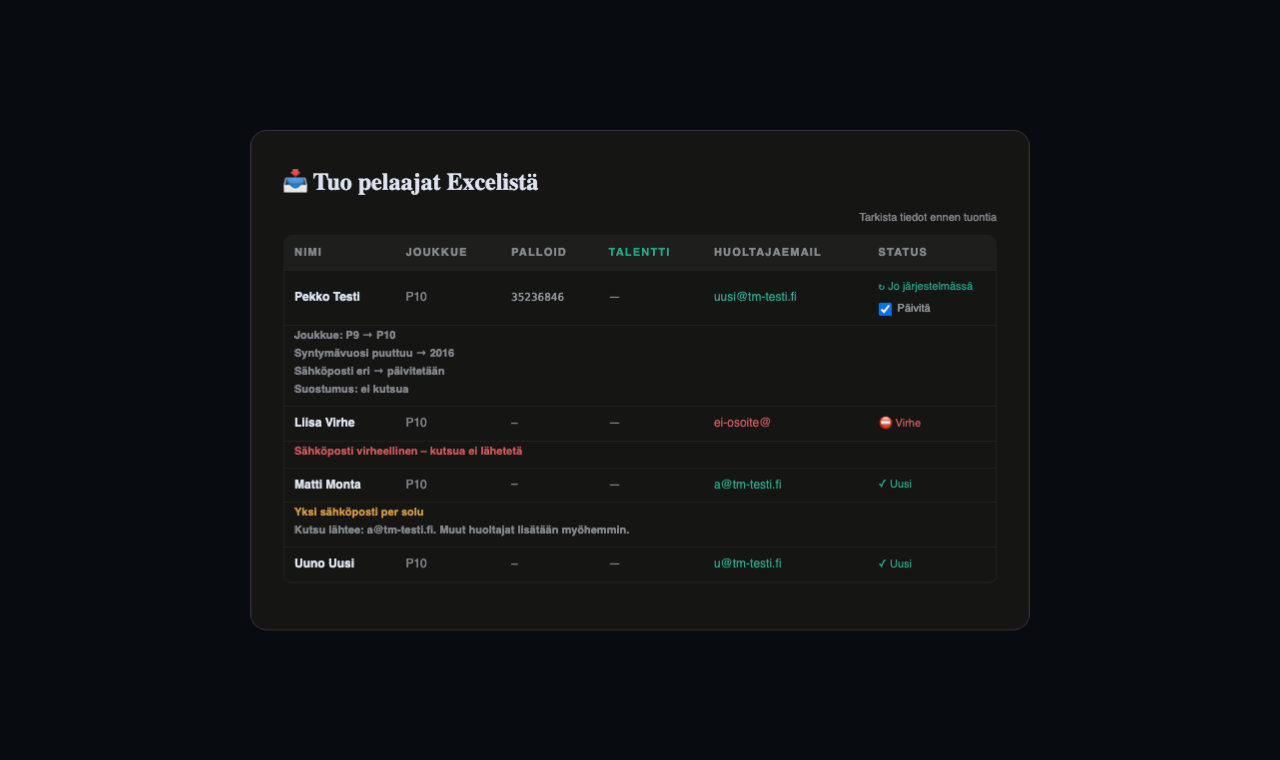
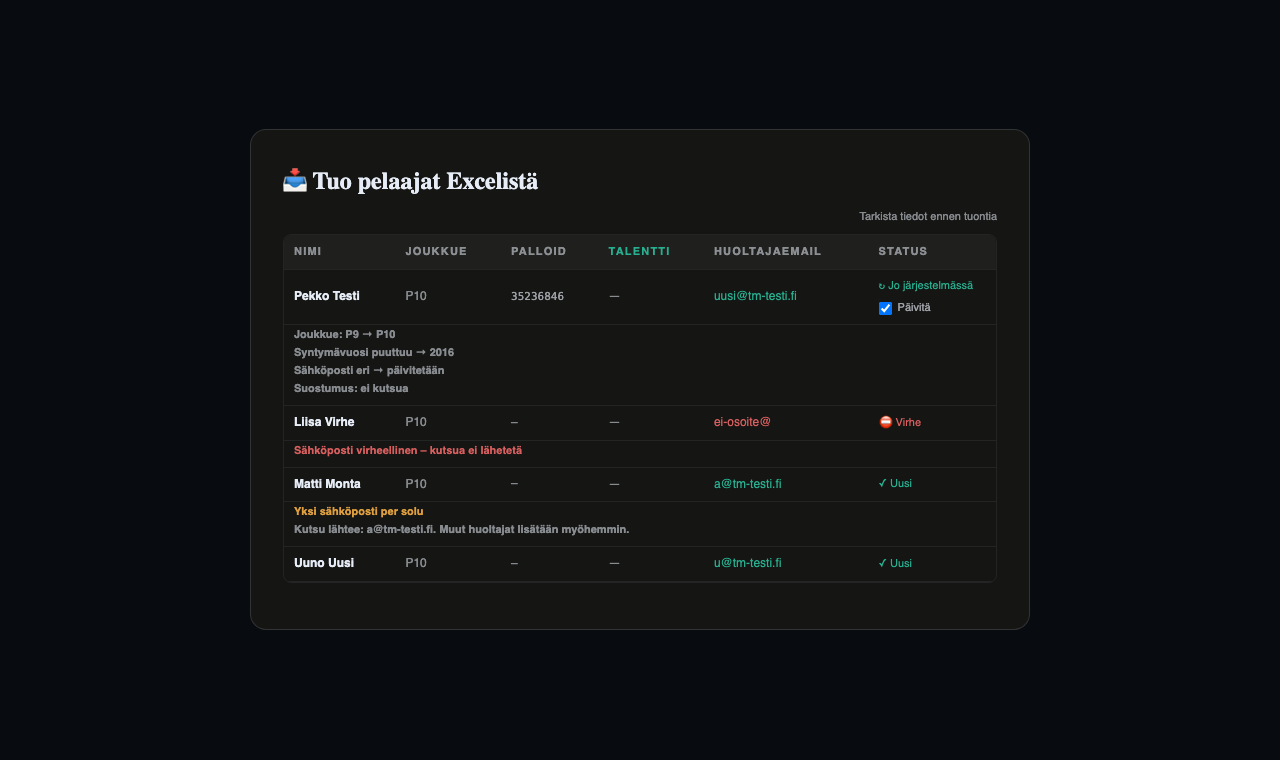
Seura: tuonnin esikatselu alle 600 px — status ja Päivitä nimen alle, rivi korttina
Alle 600 px:n leveydellä taulukon rivi on grid-kortti: nimi, status + Päivitä-ruutu, joukkue/PalloID/Talentti, sähköposti; selitykset täysleveällä alarivillä. Ei vaakavieritystä, status ei jää näkymän ulkopuolelle. Kuva 390 päivitetty.

diff --git a/TalentMaster_Seura.html b/TalentMaster_Seura.html
@@ -552,6 +552,19 @@ tbody td:first-child { font-weight:600; color:var(--ink); }
   .ke-toim { flex:1 1 100%; } .ke-toim-kevyt { margin-left:0; }
   .ke-suod { width:100%; } .ke-ryhma { width:100%; } .ke-ryhma .ke-vaihto { flex:1; }
 }
+/* Excel-tuonnin esikatselu kapealla näytöllä (<600 px): rivi korttina, STATUS + Päivitä nimen alle (ei vaakavieritystä) */
+@media(max-width:600px){
+  #excelEsikatselu table { min-width:0 !important; }
+  #excelEsikatselu thead { display:none; }
+  #excelEsikatselu tr.excelPelRivi { display:grid; grid-template-columns:auto auto 1fr; column-gap:14px; align-items:center; }
+  #excelEsikatselu tr.excelPelRivi > td { display:block; min-width:0; overflow-wrap:anywhere; }
+  #excelEsikatselu td.excT-nimi { grid-column:1 / -1; order:1; padding-bottom:0 !important; }
+  #excelEsikatselu td.excT-status { grid-column:1 / -1; order:2; display:flex !important; flex-wrap:wrap; align-items:center; gap:2px 14px; padding-top:2px !important; }
+  #excelEsikatselu td.excT-status label { margin-top:0 !important; }
+  #excelEsikatselu td.excT-joukkue, #excelEsikatselu td.excT-pallo, #excelEsikatselu td.excT-tal { order:3; padding-top:2px !important; padding-bottom:2px !important; }
+  #excelEsikatselu td.excT-email { grid-column:1 / -1; order:4; padding-top:2px !important; }
+  #excelEsikatselu tr.excelSelitys, #excelEsikatselu tr.excelSelitys > td { display:block; }
+}
 @media(max-width:480px){
   .kpiRivi { grid-template-columns:1fr; }
   .sisalto { padding:10px; }
@@ -6662,13 +6675,13 @@ function kasitteleExcelTuonti(event) {
         const onTalentti = p.talentti === 'kyllä' || p.talentti === 'kylla' || p.talentti === 'yes' || p.talentti === 'k';
         const st = _excelRiviStatus(p, i);
         const emailPun = p._hylatty || p._emailVirhe;   // punainen vain virheellisestä osoitteesta
-        return `<tr style="${st.selitykset.length ? '' : 'border-bottom:1px solid var(--border);'}">
-          <td style="padding:7px 10px;font-size:12px;font-weight:600;">${tmEsc(p.etunimi)} ${tmEsc(p.sukunimi)}</td>
-          <td style="padding:7px 10px;font-size:12px;color:var(--ink3);">${tmEsc(p.joukkue || '—')}</td>
-          <td style="padding:7px 10px;font-size:11px;font-family:monospace;color:${p.palloId ? 'var(--ink2)' : 'var(--ink3)'};">${tmEsc(p.palloId || '—')}</td>
-          <td style="padding:7px 10px;font-size:12px;">${onTalentti ? '<span style="color:var(--teal);font-weight:700;">⭐ ' + (p.talenttiTaso||'perus') + '</span>' : '<span style="color:var(--ink3);">—</span>'}</td>
-          <td style="padding:7px 10px;font-size:12px;color:${emailPun ? 'var(--red)' : 'var(--teal)'};">${tmEsc(p.huoltajaEmail || p._emailRaaka || '—')}</td>
-          <td style="padding:7px 10px;font-size:11px;color:${st.vari};white-space:nowrap;">${st.status}${st.paivita}</td>
+        return `<tr class="excelPelRivi" style="${st.selitykset.length ? '' : 'border-bottom:1px solid var(--border);'}">
+          <td class="excT-nimi" style="padding:7px 10px;font-size:12px;font-weight:600;">${tmEsc(p.etunimi)} ${tmEsc(p.sukunimi)}</td>
+          <td class="excT-joukkue" style="padding:7px 10px;font-size:12px;color:var(--ink3);">${tmEsc(p.joukkue || '—')}</td>
+          <td class="excT-pallo" style="padding:7px 10px;font-size:11px;font-family:monospace;color:${p.palloId ? 'var(--ink2)' : 'var(--ink3)'};">${tmEsc(p.palloId || '—')}</td>
+          <td class="excT-tal" style="padding:7px 10px;font-size:12px;">${onTalentti ? '<span style="color:var(--teal);font-weight:700;">⭐ ' + (p.talenttiTaso||'perus') + '</span>' : '<span style="color:var(--ink3);">—</span>'}</td>
+          <td class="excT-email" style="padding:7px 10px;font-size:12px;color:${emailPun ? 'var(--red)' : 'var(--teal)'};">${tmEsc(p.huoltajaEmail || p._emailRaaka || '—')}</td>
+          <td class="excT-status" style="padding:7px 10px;font-size:11px;color:${st.vari};white-space:nowrap;">${st.status}${st.paivita}</td>
         </tr>${_excelRiviSelitys(st)}`;
       }).join('');
       { const _k = document.getElementById('excelEsikatseluKaare'); if (_k && _k.style && _k.style.setProperty) _k.style.setProperty('--excelKaare', _k.clientWidth + 'px'); }
